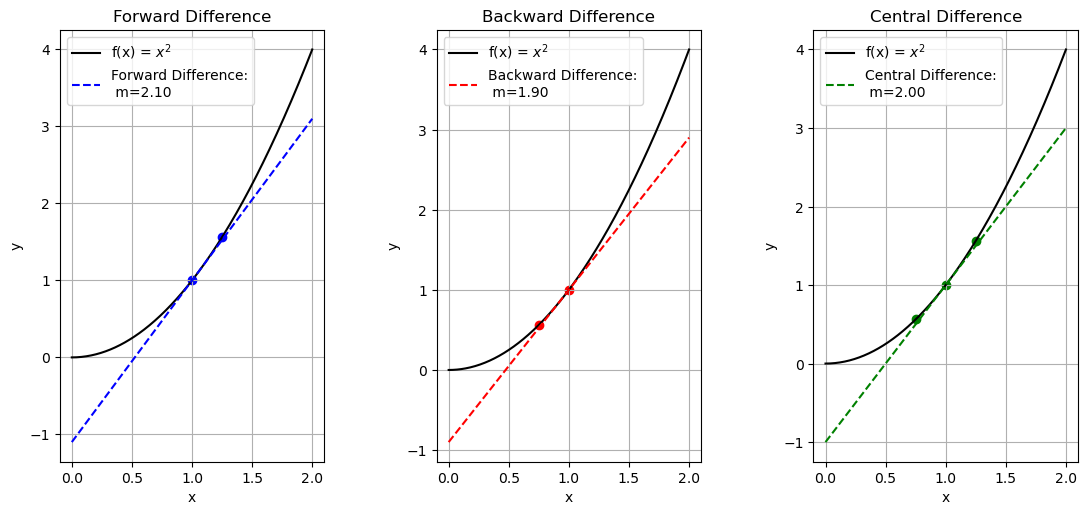
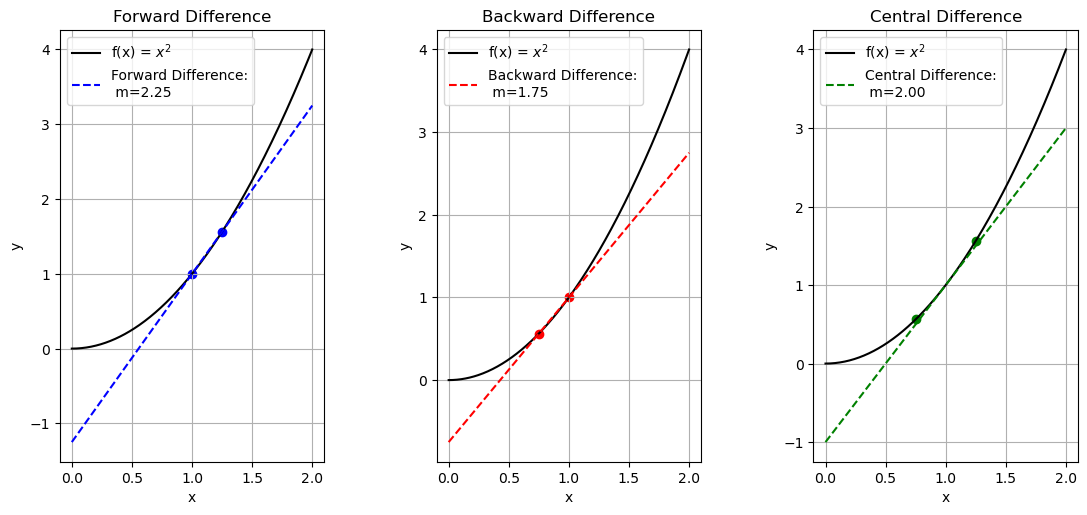
FD figure

diff --git a/projects/Biophysics-Book/Finite-Difference.html b/projects/Biophysics-Book/Finite-Difference.html
@@ -232,9 +232,9 @@ y = f(x)
 
 x_point = 1
 y_point = f(x_point)
-slope_forward = forward_difference(f, x_point)
-slope_backward = backward_difference(f, x_point)
-slope_central = central_difference(f, x_point)
+slope_forward = forward_difference(f, x_point,.25)
+slope_backward = backward_difference(f, x_point,.25)
+slope_central = central_difference(f, x_point,.25)
 
 # Calculate tangent lines
 y_forward = slope_forward * (x - x_point) + y_point
@@ -246,29 +246,37 @@ fig.tight_layout(pad=5.0)
 
 # Forward difference plot
 axs[0].plot(x, y, label="f(x) = $x^2$", color='black')
-axs[0].plot(x, y_forward, '--', label=f"Forward Difference: m={slope_forward:.2f}", color='blue')
-axs[0].scatter([x_point, x_point + 0.25], [y_point, f(x_point + 0.25)], color='black')
+axs[0].plot(x, y_forward, '--', label=f"Forward Difference:\n m={slope_forward:.2f}", color='blue')
+axs[0].scatter([x_point, x_point + 0.25], [y_point, f(x_point + 0.25)], color='blue')
 axs[0].legend()
 axs[0].grid(True)
+axs[0].set_xlabel('x')
+axs[0].set_ylabel('y')
 axs[0].set_title("Forward Difference")
 
 # Backward difference plot
 axs[1].plot(x, y, label="f(x) = $x^2$", color='black')
-axs[1].plot(x, y_backward, '--', label=f"Backward Difference: m={slope_backward:.2f}", color='red')
-axs[1].scatter([x_point, x_point - 0.25], [y_point, f(x_point - 0.25)], color='black')
+axs[1].plot(x, y_backward, '--', label=f"Backward Difference:\n m={slope_backward:.2f}", color='red')
+axs[1].scatter([x_point, x_point - 0.25], [y_point, f(x_point - 0.25)], color='red')
 axs[1].legend()
 axs[1].grid(True)
+axs[1].set_xlabel('x')
+axs[1].set_ylabel('y')
 axs[1].set_title("Backward Difference")
 
 # Central difference plot
 axs[2].plot(x, y, label="f(x) = $x^2$", color='black')
-axs[2].plot(x, y_central, '--', label=f"Central Difference: m={slope_central:.2f}", color='green')
-axs[2].scatter([x_point, x_point + 0.25, x_point - 0.25], [y_point, f(x_point + 0.25), f(x_point - 0.25)], color='black')
+axs[2].plot(x, y_central, '--', label=f"Central Difference:\n m={slope_central:.2f}", color='green')
+axs[2].scatter([ x_point + 0.25, x_point - 0.25], [f(x_point + 0.25), f(x_point - 0.25)], color='green')
 axs[2].legend()
 axs[2].grid(True)
+axs[2].set_xlabel('x')
+axs[2].set_ylabel('y')
 axs[2].set_title("Central Difference")
 
 plt.show()
+                    
+                    
                     
                     
                              
@@ -555,7 +563,7 @@ where i is the spatial index and n is the time index.
                 We say a PDE is elliptic if
                 $$B^2-AC\lt 0$$
 
-
+                <h5>Hyperbolic PDEs</h5>
 
                 For hyperbolic PDEs (wave-like), there is the Lax-Wendroff method.
 
@@ -637,6 +645,18 @@ plt.show()
 ani.save("One-Way-Wave-Equation-Finite-Difference.gif",fps=20)
 </pre>
 </code></div>
+
+<h5>Elliptic PDEs</h5>
+Elliptic PDEs tend to occur in PDEs that describe steady state systems rather than changing ones. 
+<br>
+An example of an elliptic PDE is the Laplace equation
+$$\nabla^2 u = 0$$
+
+and the generalized version, known as the Poisson equation
+$$\nabla^2 u = f(x,y)$$
+
+Since these PDEs typically do not involve a time derivative, it does not make sense to describe a method where we move forward through time iteratively. 
+These are often solved by systems of equations or iteratively. 
 
                 <h2>Selected Applications</h2>
                     In the stochastic process chapter, we will cover a similar technique for another class of differential equations. 
